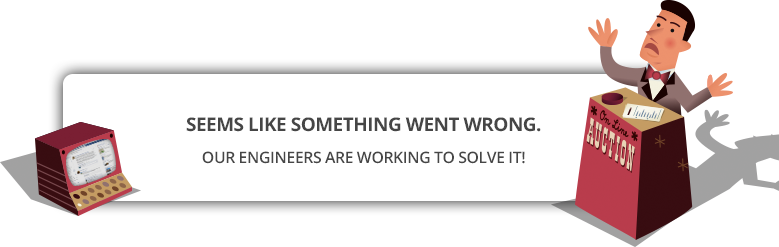
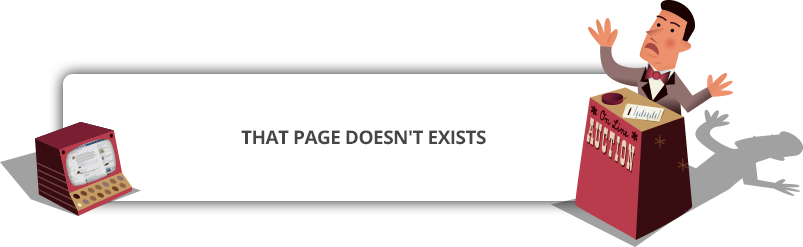
error pages html and png

diff --git a/templates/404.html b/templates/404.html
@@ -16,8 +16,9 @@ body {
 		<a href="https://apps.facebook.com/ibidgames/canvashome/"><img src="{% static "images/logo.png" %}" width="293" height="105"></a>
 		</br>
 		</br>
-		<img src="{% static "images/404.png" %}" width="807" height="247">
+		<img src="{% static "images/404.png" %}" width="803" height="247">
 	</div>
 
 
 {% endblock %}
+ 

diff --git a/templates/500.html b/templates/500.html
@@ -12,7 +12,7 @@
 	<a href="https://apps.facebook.com/ibidgames/canvashome/"><img src="{% static "images/logo.png" %}" width="293" height="105"></a>
 	</br>
 	</br>
-	<img src="{% static "images/404.png" %}" width="807" height="247">
+	<img src="{% static "images/500.png" %}" width="803" height="247">
 </div>
 
 {% endblock %}
